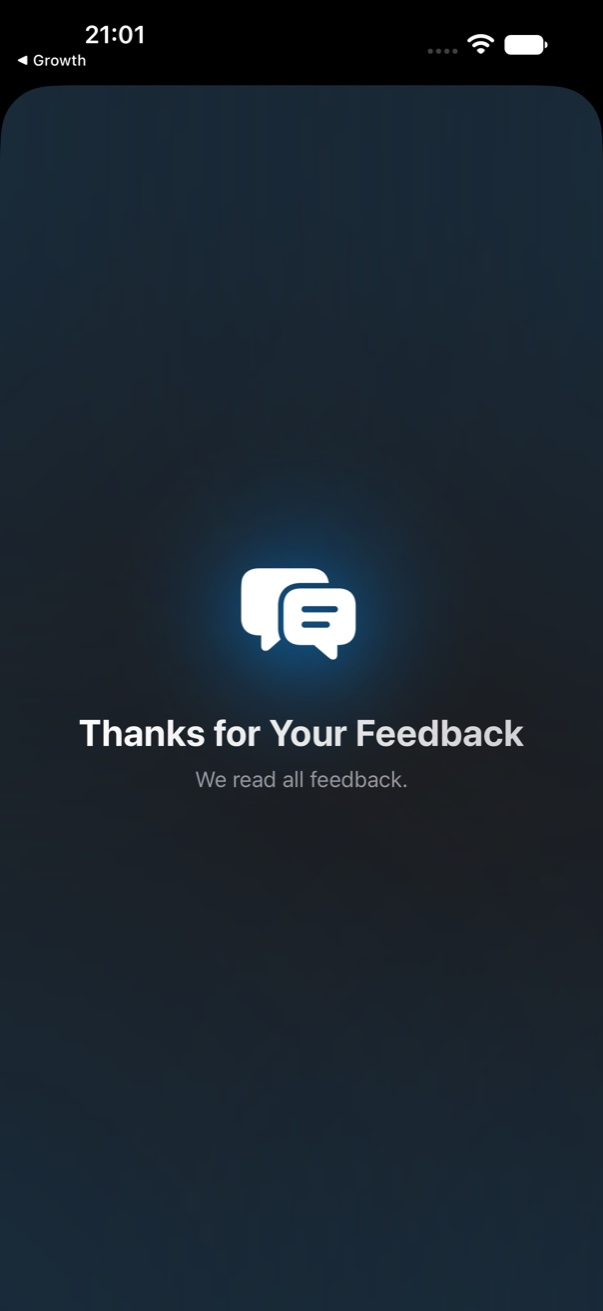
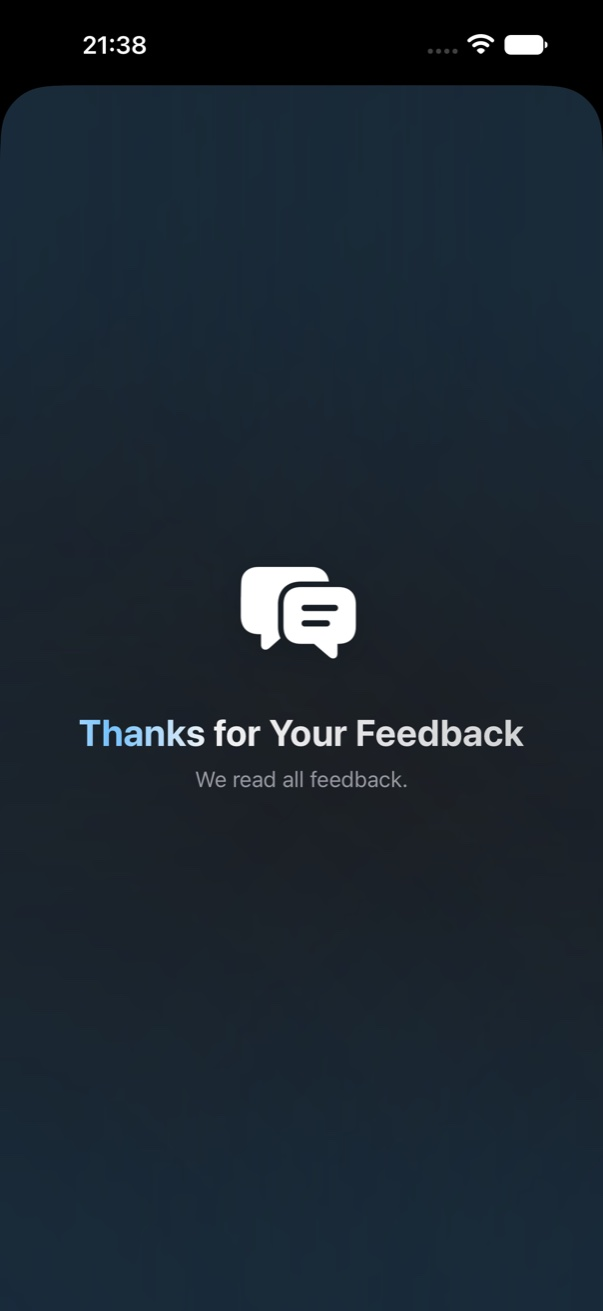
fix: remove the thank-you screen's glow

Changed region(s): [[0.3284, 0.3966, 0.6567, 0.5492], [0.0299, 0.0, 0.2388, 0.061], [0.1194, 0.5492, 0.2985, 0.5797]]

diff --git a/Sources/FeedbackKit/FeedbackThanksView.swift b/Sources/FeedbackKit/FeedbackThanksView.swift
@@ -66,32 +66,20 @@ struct FeedbackThanksView: View {
     }
 
     private var hero: some View {
-        ZStack {
-            Circle()
-                .fill(RadialGradient(
-                    colors: [Color.accentColor.opacity(0.16), Color.accentColor.opacity(0.05), .clear],
-                    center: .center,
-                    startRadius: 0,
-                    endRadius: Self.iconSize * 1.35))
-                .frame(width: Self.iconSize * 2.7, height: Self.iconSize * 2.7)
-                .blur(radius: Self.iconSize * 0.22)
-                .frame(width: Self.iconSize, height: Self.iconSize)
-
-            self.icon
-                .resizable()
-                .scaledToFit()
-                .frame(width: Self.iconSize, height: Self.iconSize)
-                .clipShape(.rect(cornerRadius: Self.iconSize * 0.23, style: .continuous))
-                .shadow(
-                    color: .black.opacity(0.15),
-                    radius: Self.iconSize * 0.14,
-                    x: 0,
-                    y: Self.iconSize * 0.06)
-        }
-        .scaleEffect(self.pulse)
-        .scaleEffect(self.pop)
-        .offset(y: self.float)
-        .accessibilityHidden(true)
+        self.icon
+            .resizable()
+            .scaledToFit()
+            .frame(width: Self.iconSize, height: Self.iconSize)
+            .clipShape(.rect(cornerRadius: Self.iconSize * 0.23, style: .continuous))
+            .shadow(
+                color: .black.opacity(0.15),
+                radius: Self.iconSize * 0.14,
+                x: 0,
+                y: Self.iconSize * 0.06)
+            .scaleEffect(self.pulse)
+            .scaleEffect(self.pop)
+            .offset(y: self.float)
+            .accessibilityHidden(true)
     }
 
     @ViewBuilder

diff --git a/CHANGELOG.md b/CHANGELOG.md
@@ -6,6 +6,12 @@ All notable changes to FeedbackKit are recorded here. The format follows
 
 ## [Unreleased]
 
+## [2.0.2] - 2026-10-31
+
+### Removed
+
+- The thank-you screen's glow behind the icon. The icon keeps its soft neutral shadow.
+
 ## [2.0.1] - 2026-10-31
 
 ### Changed
